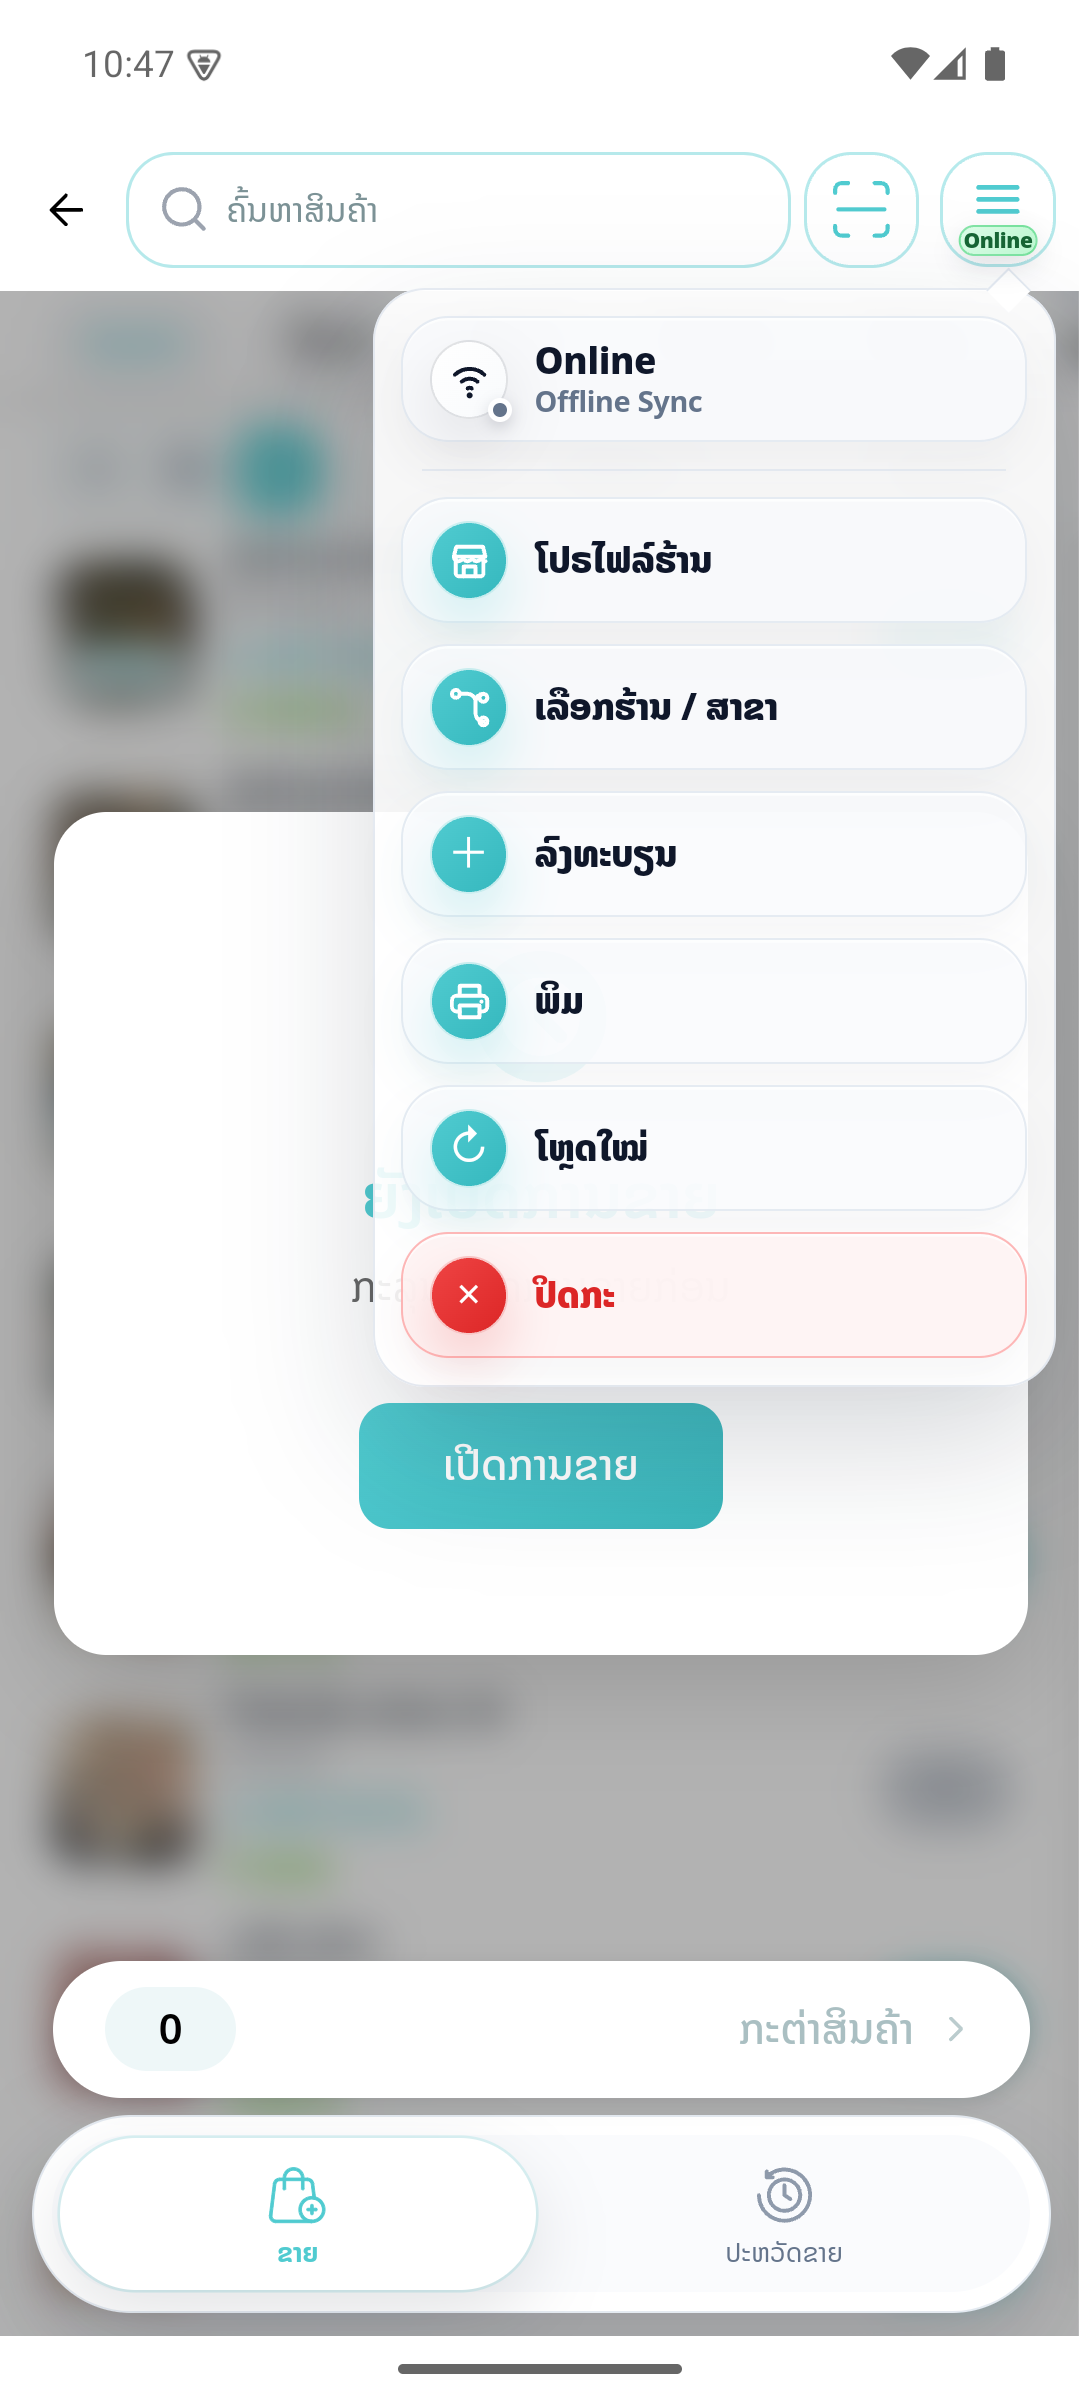
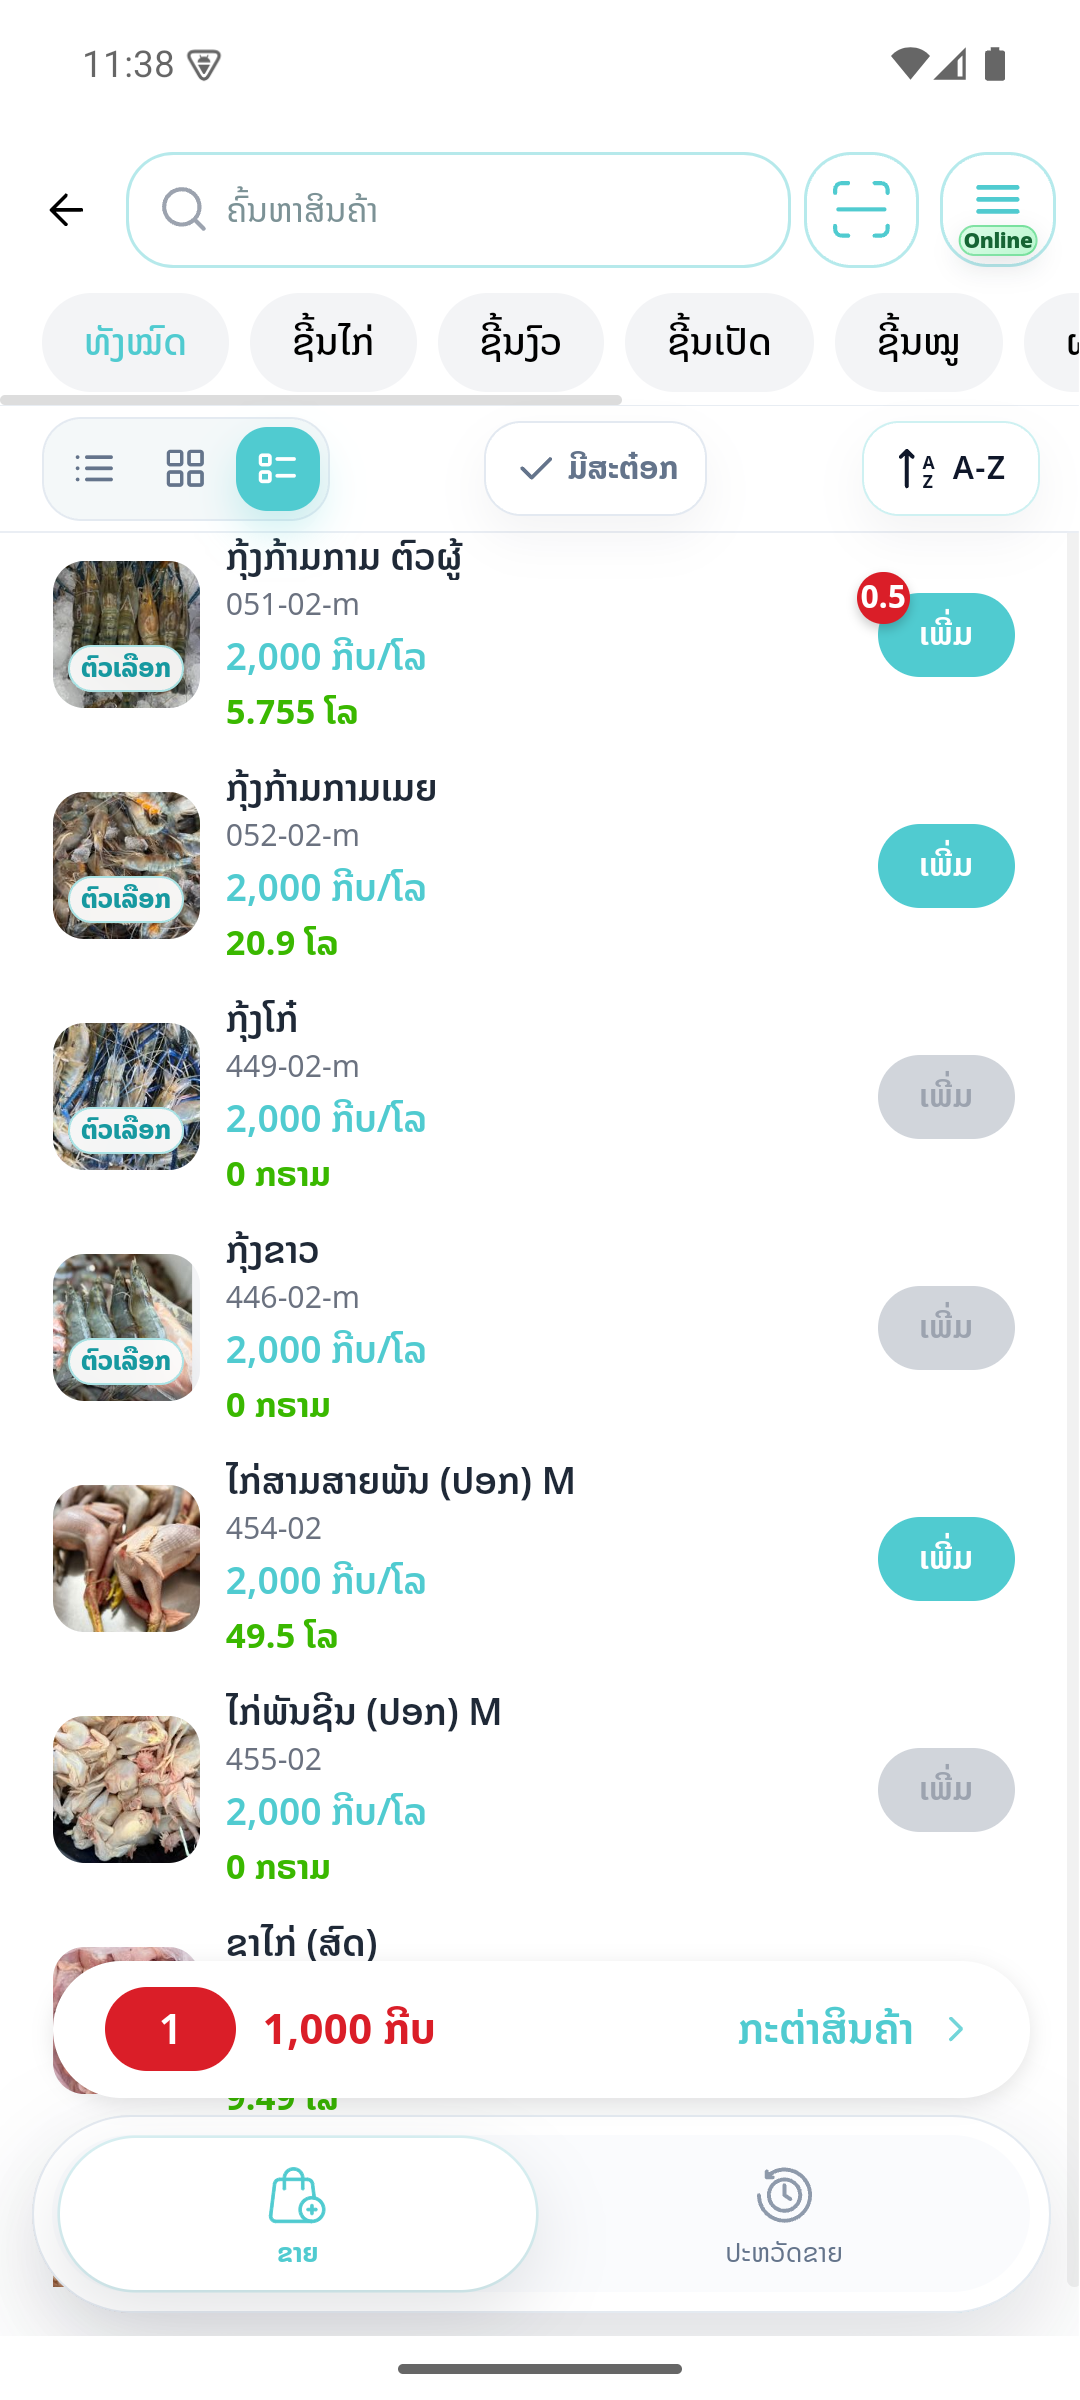
Update Owner and Cashier role screenshots

diff --git a/assets/js/modules-detail.js b/assets/js/modules-detail.js
@@ -80,7 +80,7 @@
           code: 'OWNER',
           label: 'ເຈົ້າຂອງຮ້ານ',
           image: 'unipos-owner-role.png',
-          evidence: 'Owner ເຫັນເມນູການຂາຍ, ລາຍການສິນຄ້າ, ສັງລວມ, ປະຫວັດຂາຍ ແລະຕິດຕາມການສັ່ງຊື້.',
+          evidence: 'Owner ເຫັນຍອດຂາຍ, ຕົ້ນທຶນ, ກຳໄລ, ຈຳນວນອໍເດີ ແລະແນວໂນ້ມການຂາຍຕາມຊ່ວງເວລາ.',
           pitch: 'ເຫັນພາບລວມ ແລະຄວບຄຸມການດຳເນີນງານຂອງຮ້ານຈາກ MiniApp ດຽວ.',
           scope: 'ເລືອກຮ້ານ/ສາຂາ, ຂາຍ, ກວດລາຍການສິນຄ້າ, ເບິ່ງສະຫຼຸບ, ປະຫວັດຂາຍ ແລະຕິດຕາມຄຳສັ່ງຊື້.',
           steps: ['ເລືອກຮ້ານ ແລະສາຂາ', 'ຕິດຕາມຍອດຂາຍ/ສິນຄ້າ', 'ກວດສະຫຼຸບ ແລະປະຫວັດ', 'ໃຊ້ Backoffice ສຳລັບການຄວບຄຸມແບບລະອຽດ']
@@ -98,7 +98,7 @@
           code: 'CASHIER',
           label: 'ພະນັກງານຂາຍ',
           image: 'unipos-cashier-role.png',
-          evidence: 'Cashier ເຫັນປຸ່ມ “ເປີດການຂາຍ” ແລະມີສະເພາະເມນູຂາຍ/ປະຫວັດຂາຍທີ່ຈຳເປັນ.',
+          evidence: 'Cashier ເລືອກສິນຄ້າ, ກຳນົດຈຳນວນ ແລະເຫັນຈຳນວນລາຍການ/ຍອດເງິນໃນກະຕ່າກ່ອນຮັບຊຳລະ.',
           pitch: 'ໂຟກັດສະເພາະງານໜ້າຮ້ານ: ເປີດກະ, ຂາຍ, ຮັບຊຳລະ ແລະກວດປະຫວັດຂາຍ.',
           scope: 'UI ສຳລັບ Cashier ສະແດງສະເພາະເມນູ “ຂາຍ” ແລະ “ປະຫວັດຂາຍ” ເພື່ອຫຼຸດຄວາມຊັບຊ້ອນ ແລະຄວາມສ່ຽງ.',
           steps: ['ເລືອກຮ້ານ/ສາຂາທີ່ມີ Role CASHIER', 'ເປີດການຂາຍກ່ອນເລີ່ມງານ', 'ຄົ້ນຫາ/ສະແກນ ແລະເພີ່ມສິນຄ້າ', 'ຮັບຊຳລະ ແລະກວດປະຫວັດຂາຍ']
